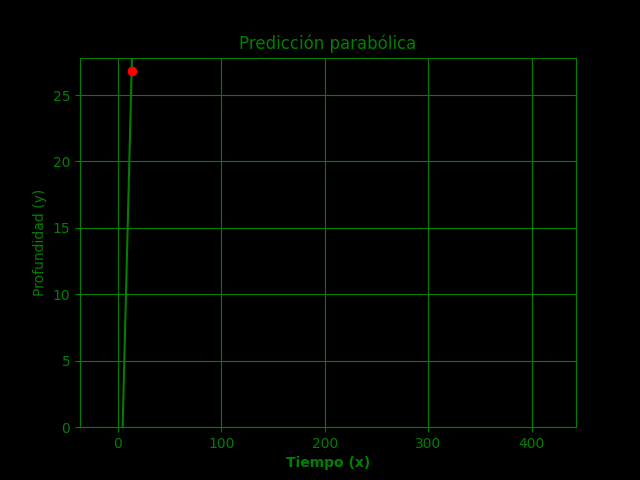
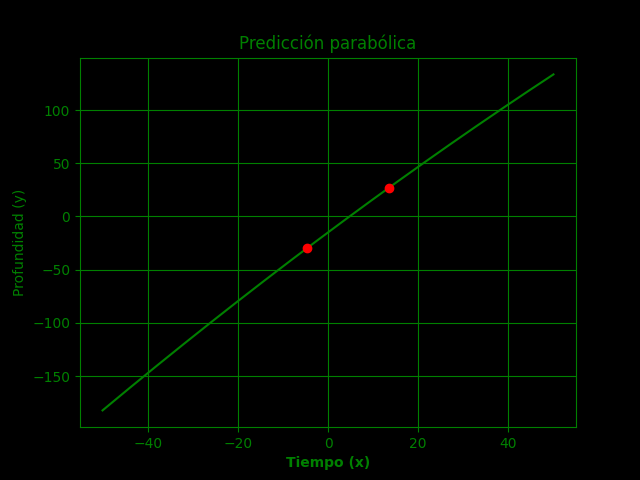
Corrección de la gráfica cartesiana

diff --git a/Radar_GUI/__main__.py b/Radar_GUI/__main__.py
@@ -143,13 +143,12 @@ class Radar:
         self.axCartPos1 = (0, 0)
         self.axCartPos2 = (0, 0)
         self.axCartX = np.arange(-50, 50, 0.01)
-        self.axCartY = (1*self.axCartX**2) + (1*self.axCartX) +1 #Forma cuadrática
+        self.axCartY = self.axCartX
 
         self.canvasCart = FigureCanvasTkAgg(self.figCart, master=root)
         self.canvasCart.get_tk_widget().pack(side=tk.LEFT, fill=tk.BOTH, expand=1)
         self.figCart.set_facecolor("black")
         self.axCart.plot(self.axCartX, self.axCartY, color='green')
-        self.axCart.set_ylim(0,20)
         self.axCart.scatter(self.axCartPos1, self.axCartPos2, color='red', zorder=5)
 
         # Hilo para la comunicación serial
@@ -267,7 +266,7 @@ class Radar:
                             self.objectsPos_x = objPos_x
                             self.objectsPos_y = objPos_y
                                 
-
+                            
                             
 
                             if len(self.objects_pos1) > 1:
@@ -277,9 +276,12 @@ class Radar:
                                 objDist1 = self.objects_pos1[-1][1]
                                 objAng1 = self.objects_pos1[-1][0]
 
-                                objTime = self.objects_pos1[-2][2] - self.objects_pos1[-1][2]
+                                objTime = self.objects_pos1[-1][2] - self.objects_pos1[-2][2]
 
                                 self.parable((objDist0, objAng0), (objDist1, objAng1), objTime)
+                                print()
+                                print(self.axCartPos1)
+                                print(self.axCartPos2)
 
                             self.update_plot()
                             
@@ -331,6 +333,7 @@ class Radar:
             
             self.canvasRad.draw_idle()
 
+
             #Gráfico cartesiano
 
             #Borrar datos del grafico cartesiano antes de actualizarlo
@@ -345,16 +348,13 @@ class Radar:
 
             #Graficar la parábola y los puntos de detección
             self.axCart.plot(self.axCartX, self.axCartY, color='green')
-            self.axCart.scatter(self.axCartPos1, self.axCartPos2, color='red', zorder=5)
-            #Visualizar el gráfico con límites dinámicos según los puntos detectados
-            #self.axCart.set_ylim(0, max(self.axCartPos1[1], self.axCartPos2[1]) + 5)
-            #self.axCart.set_xlim(0, max(self.axCartPos1[0], self.axCartPos2[0]) + 5)
+            self.axCart.scatter(
+                [self.axCartPos1[0], self.axCartPos2[0]],
+                [self.axCartPos1[1], self.axCartPos2[1]],
+                color='red',
+                zorder=5)
             
             self.canvasCart.draw_idle()
-
-            # self.axCart.plot(self.axCartX, self.axCartY, color='green')
-            # self.axCart.scatter(self.axCartPos1, self.axCartPos2, color='red', zorder=5)
-            # self.canvasCart.draw_idle()
             
         except:
             pass
@@ -393,11 +393,11 @@ class Radar:
         #Transformar las coordenadas polares en cartesianas, y asignar cada valor 'x' y 'y'
         #por separado
 
-        x1 = pol1[0]*np.cos(180-pol1[1])
-        x2 = pol2[0]*np.cos(180-pol2[1])
+        x1 = round(pol1[0]*np.cos(np.deg2rad(180-pol1[1])), 2)
+        x2 = round(pol2[0]*np.cos(np.deg2rad(180-pol2[1])), 2)
 
-        y1 = pol1[0]*np.sin(180-pol1[1])
-        y2 = pol2[0]*np.sin(180-pol2[1])
+        y1 = round(pol1[0]*np.sin(np.deg2rad(180-pol1[1])), 2)
+        y2 = round(pol2[0]*np.sin(np.deg2rad(180-pol2[1])), 2)
         
         #Calcular coeficientes de la variable independiente
 
@@ -413,8 +413,8 @@ class Radar:
         rangeX = np.arange(x_min, x_max, 0.01)
 
         #Cambiar variables del gráfico
+        self.axCartX = rangeX
         self.axCartY = (a*rangeX**2) + (b*rangeX) + c
-
         self.axCartPos1 = (x1, y1)
         self.axCartPos2 = (x2, y2)
 